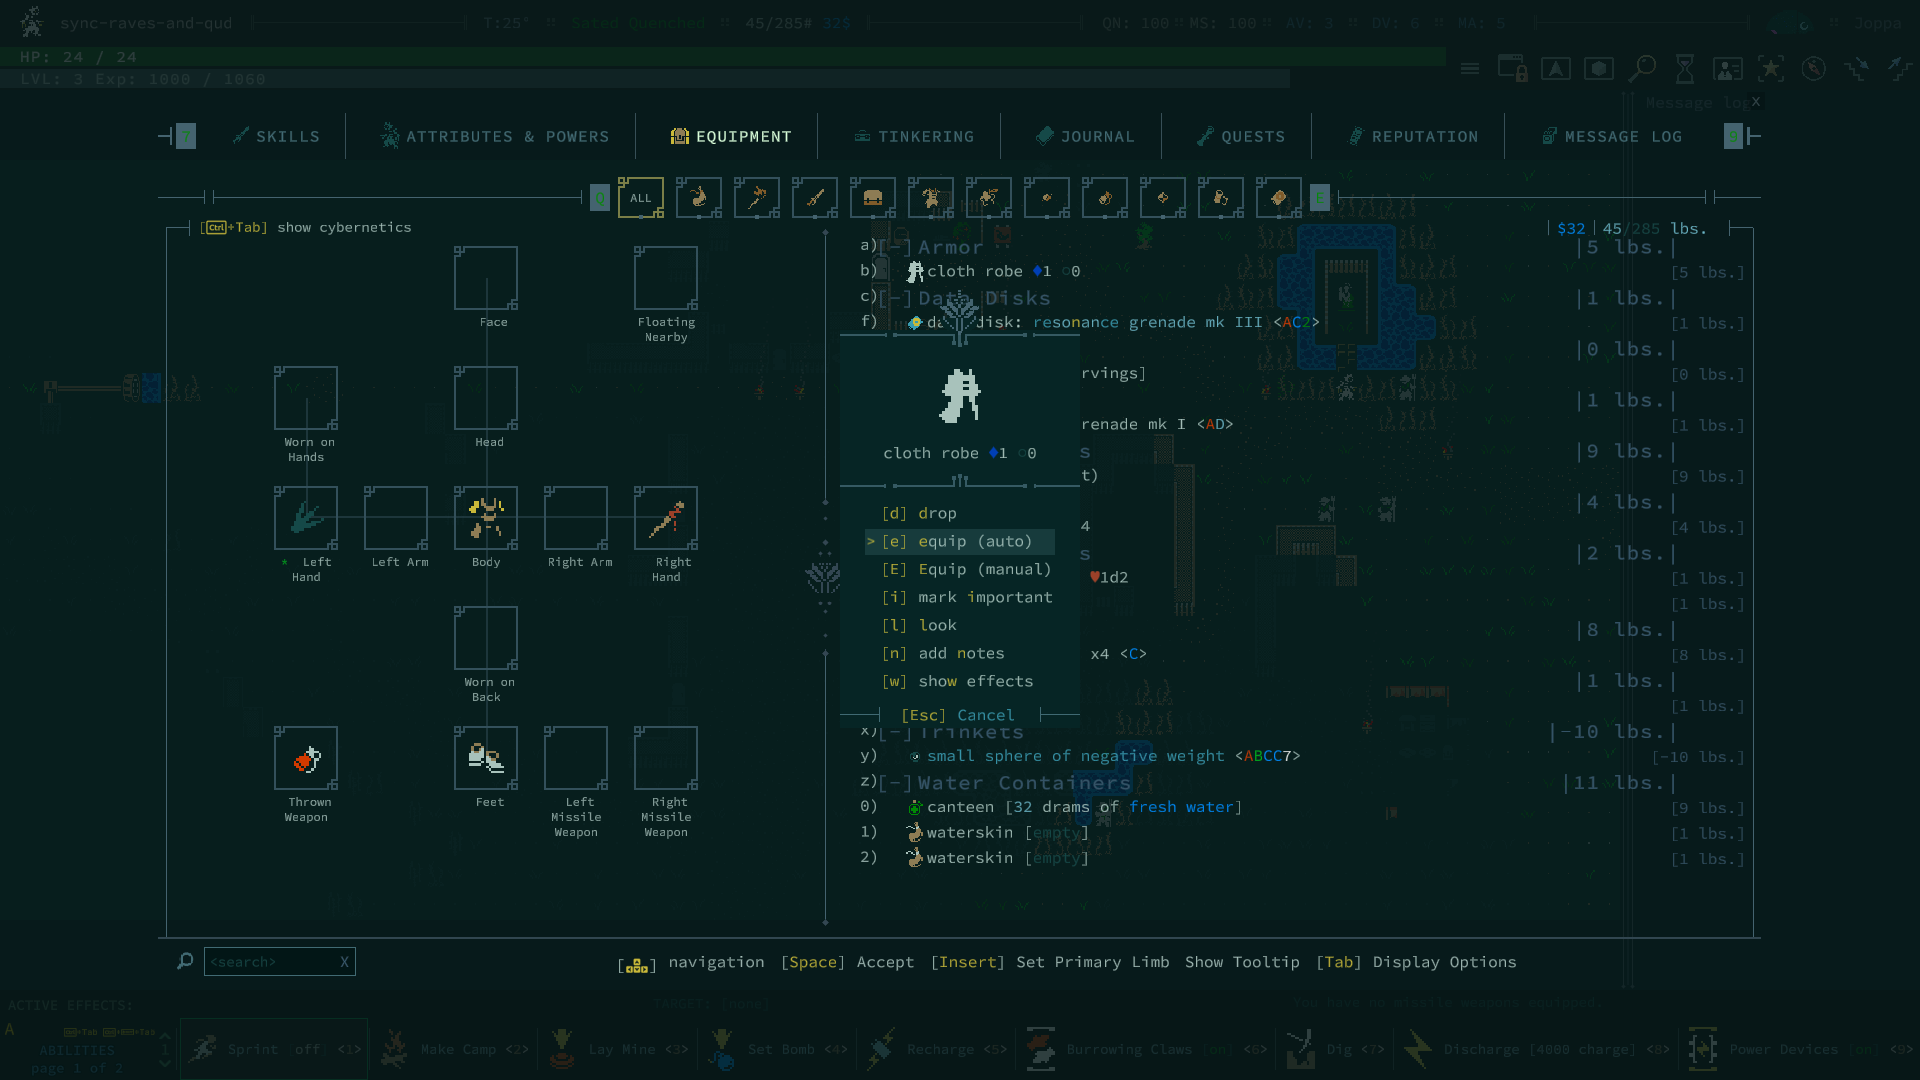
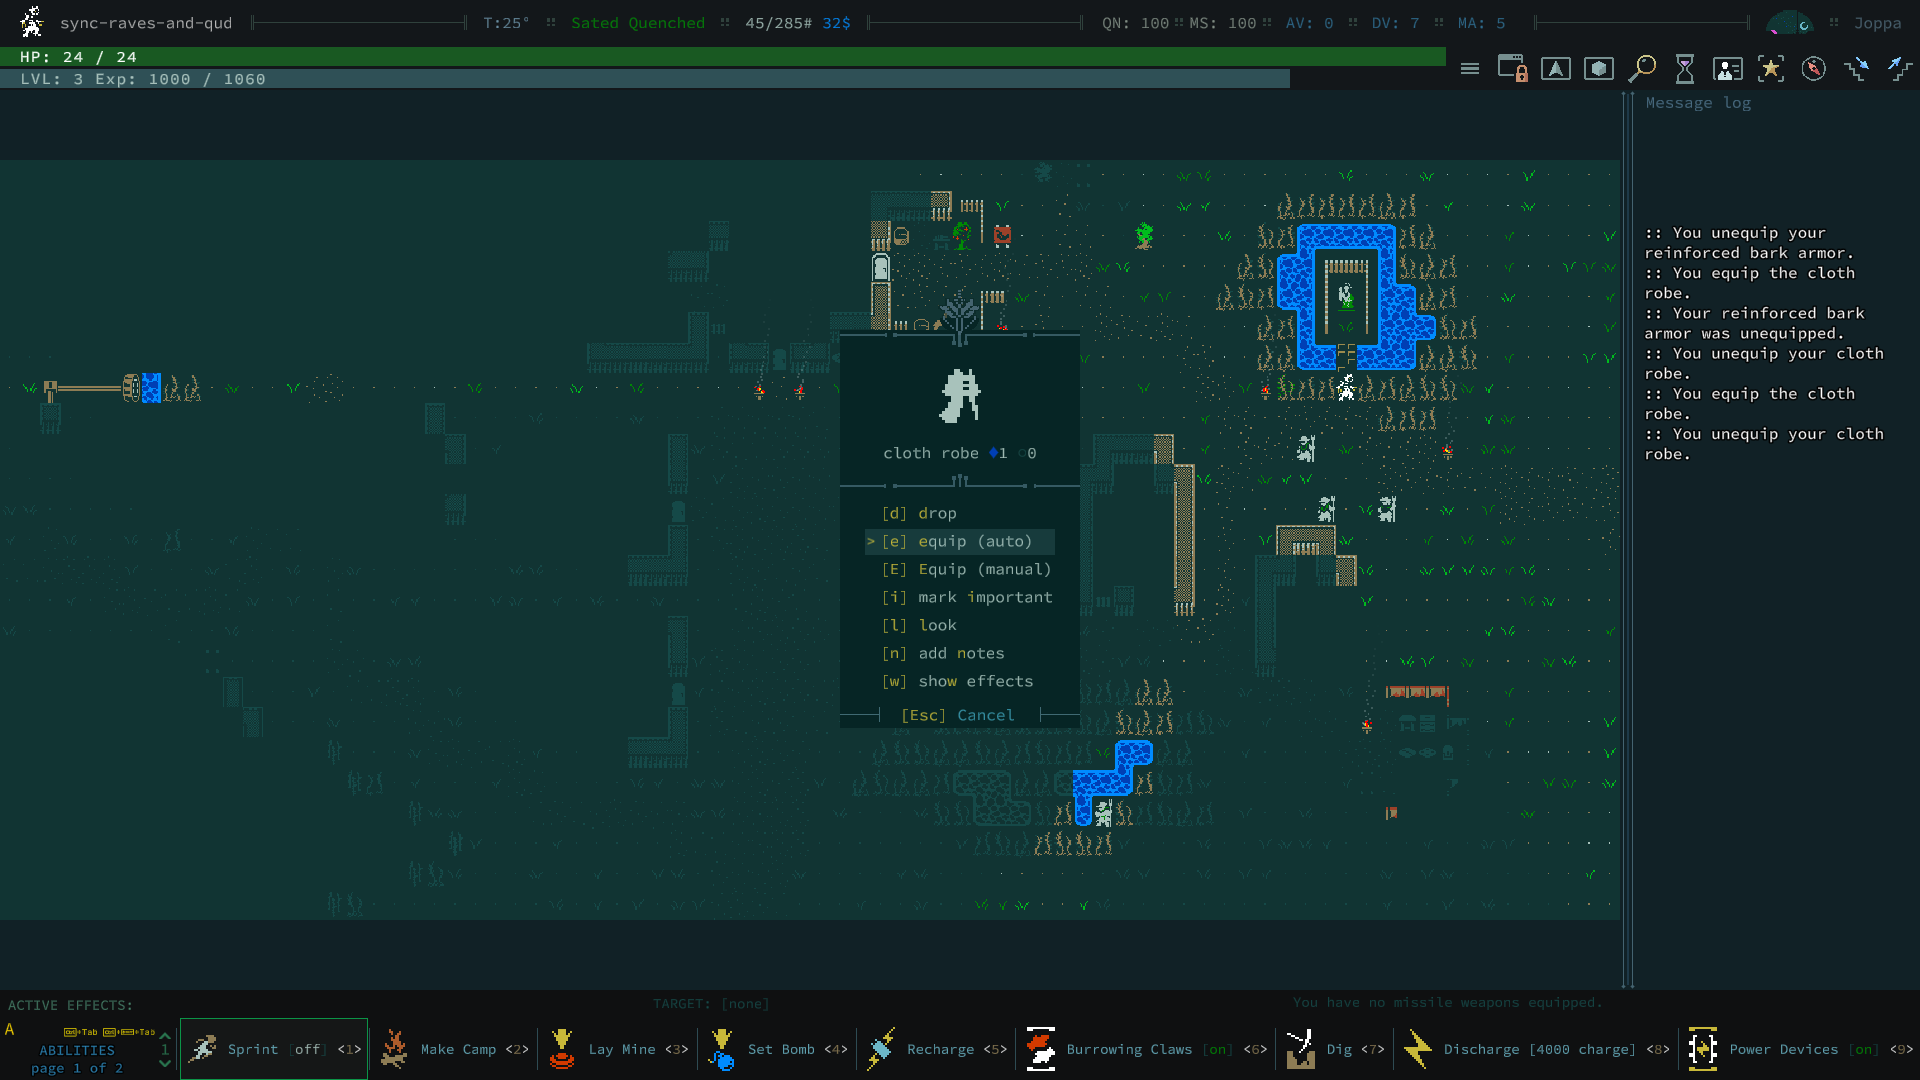
Item popup: build Qud's context header
The framed block Qud puts above the command list -- the item's tile, its name
with badges, and a notched divider -- now renders in Raves.

Sourced from the live popup rather than reconstructed: PopupMessage's
contextImage.threeColorTile carries the sprite and already-RESOLVED
Foreground/Detail, and contextText its own colour, so the client does no
palette work for the tile. The sprite has no name to ship (an atlas
sub-sprite: both sprite.name and texture.name are empty), so the mod dumps its
PIXELS into the tiles dir under a per-popup filename -- per-popup because the
client caches by name and a stable one would serve the previous item's art.

Geometry is quoted as offsets from the popup's top line, all measured off
Qud: tile box +26 at 48x72, name ink +113, divider +151.

parity, from the leaves added for this:

  popup_image_frame       16.48 -> 3.00
  popup_frame_text_content 32.21 -> 13.11
  popup_frame_text_color   25.80 -> 2.11
  popup_image_geometry     47.00 -> 0.00   (pixel-identical)
  popup_image_color       106.33 -> 0.00   (pixel-identical)

Two findings worth more than the feature:

  - the tile and the name were read from the SAME offset at two different
    moments (a draw callback and a deferred layout callback). When the layout
    shifted in between, the tile landed right and the name did not,
    intermittently -- the identical build measured +113 one run and +89 the
    next. They are drawn in one pass now. That drift is what made several
[…]

diff --git a/mod/PopupBridge.cs b/mod/PopupBridge.cs
@@ -1,4 +1,5 @@
 using System;
+using System.IO;
 using System.Collections.Generic;
 using ConsoleLib.Console;   // Location2D not needed; kept minimal
 using Qud.UI;               // PopupMessage, QudMenuItem, QudTextMenuController, UITextSkin, ControlledTMPInputField
@@ -176,7 +177,21 @@ namespace RavesOfQud
             string title = pm.Title != null ? pm.Title.text : "";
             string inputDefault = input ? (pm.inputBox.text ?? "") : "";
 
-            string sig = Sig(message, title, buttons, options, input, inputDefault);
+            // The CONTEXT belongs in the signature. Two items' menus carry identical
+            // options and an identical message, differing only in the header -- without
+            // this, opening a second item's menu would look like "same popup, already
+            // sent" and Raves would keep showing the first item's tile and name.
+            string ctxSig = "";
+            try
+            {
+                if (pm.contextText != null && pm.contextText.gameObject.activeSelf)
+                    ctxSig = pm.contextText.text ?? "";
+                var tc0 = pm.contextImage != null ? pm.contextImage.threeColorTile : null;
+                if (tc0 != null && tc0.image != null && tc0.image.sprite != null)
+                    ctxSig += SEP + tc0.image.sprite.name + SEP + Hex(tc0.Foreground) + Hex(tc0.Detail);
+            }
+            catch { }
+            string sig = Sig(message, title, buttons, options, input, inputDefault) + SEP + ctxSig;
             _announcedPm = pm;   // answers target the instance Raves is looking at
             if (_active && sig == _sig && !resend) return;   // same popup, same content — Raves already has it
             _active = true;
@@ -194,8 +209,95 @@ namespace RavesOfQud
             j.Member("kind", input ? "input" : (options != null && options.Count > 0 ? "menu" : "message"));
             WriteItems(j, "buttons", buttons);
             WriteItems(j, "options", options);
+            WriteContext(j, pm);
             j.EndObject();
             Publish(server, j.ToString());
+        }
+
+        /// The popup's CONTEXT HEADER -- the framed block Qud puts above the command
+        /// list, holding the subject's tile and its name (an item menu shows the item).
+        /// ShowPopup takes contextRender/contextTitle as PARAMETERS, so there is nothing
+        /// to read on the instance; the live components are the source of truth:
+        /// contextImage.threeColorTile (sprite + already-resolved Foreground/Detail/
+        /// Background) and contextText. Shipping resolved RGBA means the client needs no
+        /// palette lookup for this at all.
+        private static void WriteContext(JsonWriter j, Qud.UI.PopupMessage pm)
+        {
+            try
+            {
+                if (pm.contextContainer == null || !pm.contextContainer.activeSelf) return;
+                j.Name("context").BeginObject();
+                try { j.Member("frame", pm.contextFrame != null && pm.contextFrame.activeSelf); } catch { }
+                try
+                {
+                    if (pm.contextText != null && pm.contextText.gameObject.activeSelf)
+                    {
+                        j.Member("text", pm.contextText.text ?? "");
+                        // the label's own colour, for the runs the markup does not paint
+                        j.Member("textColor", Hex(pm.contextText.color));
+                    }
+                }
+                catch { }
+                try
+                {
+                    var disp = pm.contextImage;
+                    var tc = disp != null ? disp.threeColorTile : null;
+                    if (tc != null && tc.gameObject.activeSelf && tc.image != null && tc.image.sprite != null)
+                    {
+                        // No name to ship: this sprite comes off an atlas with an empty
+                        // sprite.name AND texture.name, so its PIXELS are the only identity
+                        // it has. Dump them into the tiles dir under a per-popup filename --
+                        // per-popup because the client caches tile textures by NAME, so a
+                        // stable name would serve the previous item's art forever.
+                        string tile = "__popup_ctx_" + _id + ".png";
+                        foreach (string old in Directory.GetFiles(TileExporter.Dir, "__popup_ctx_*.png"))
+                        {
+                            try { if (Path.GetFileName(old) != tile) File.Delete(old); } catch { }
+                        }
+                        if (TitleExporter.ExportSpriteToTiles(tc.image.sprite, tile))
+                            j.Member("tile", tile);
+                        j.Member("fg", Hex(tc.Foreground));
+                        j.Member("dt", Hex(tc.Detail));
+                        if (tc.Background.a > 0.01f) j.Member("bg", Hex(tc.Background));
+                        // one-time: the draw box, so the client sizes it from Qud rather
+                        // than from a measured guess
+                        var rt = tc.image.rectTransform;
+                        System.Console.WriteLine("[raves] popup context sprite.name='" + tile
+                            + "' tex='" + (tc.image.sprite.texture != null ? tc.image.sprite.texture.name : "null")
+                            + "' spriteRect=" + tc.image.sprite.rect
+                            + " mat='" + (tc.image.material != null ? tc.image.material.name : "null") + "'");
+                        System.Console.WriteLine("[raves] popup context tile '" + tile + "' rect " + rt.rect
+                            + " scale " + rt.localScale + " preserveAspect " + tc.image.preserveAspect);
+                    }
+                }
+                catch (Exception ie) { System.Console.WriteLine("[raves] popup context image: " + ie.Message); }
+                // Qud's palette rides along: a popup can be the FIRST thing Raves draws
+                // after connecting, before any zone snapshot has delivered one, and then
+                // its markup ({{b|}} badges and the like) silently falls back to the
+                // client's approximate table -- the same trap the status screens hit.
+                try
+                {
+                    j.Name("palette").BeginObject();
+                    foreach (char pch in "rRgGbBcCmMwWoOyYkK")
+                    {
+                        try
+                        {
+                            UnityEngine.Color pc = ConsoleLib.Console.ColorUtility.colorFromChar(pch);
+                            j.Member(pch.ToString(), Hex(pc));
+                        }
+                        catch { }
+                    }
+                    j.EndObject();
+                }
+                catch { }
+                j.EndObject();
+            }
+            catch (Exception e) { System.Console.WriteLine("[raves] popup context: " + e.Message); }
+        }
+
+        private static string Hex(UnityEngine.Color c)
+        {
+            return string.Format("#{0:x2}{1:x2}{2:x2}", (int)(c.r * 255f), (int)(c.g * 255f), (int)(c.b * 255f));
         }
 
         private static void WriteItems(JsonWriter j, string name, List<QudMenuItem> items)

diff --git a/tools/capture/parity.py b/tools/capture/parity.py
@@ -64,6 +64,36 @@ def load_spec(path):
     return spec, leaves
 
 
+def anchor_row(img, spec):
+    """First row in a band where `rgb` appears at least `min` times across `x`.
+
+    Lets a leaf be quoted RELATIVE to a landmark each app draws for itself -- for a
+    popup, its own top line. Without this, a leaf about the header's CONTENT also
+    silently scores the popup's PLACEMENT, and a constant 16px offset makes a
+    pixel-perfect header look broken.
+    """
+    rgb = np.array(spec["rgb"])
+    x0, x1 = spec.get("x", [0, img.shape[1]])
+    y0, y1 = spec.get("band", [0, img.shape[0]])
+    need = spec.get("min", 100)
+    m = (np.abs(img[:, x0:x1].astype(int) - rgb).max(axis=2) < spec.get("tol", 25))
+    for y in range(y0, min(y1, img.shape[0])):
+        if m[y].sum() >= need:
+            return y
+    return None
+
+
+def resolve_rect(leaf, img, spec):
+    """A leaf's rect, with y taken relative to the anchor row when one is declared."""
+    rect = list(leaf["rect"])
+    a = leaf.get("anchor") or spec.get("anchor")
+    if a and leaf.get("anchored", True) and ("anchor" in leaf or "anchor" in spec):
+        y = anchor_row(img, a)
+        if y is not None:
+            rect[1] = y + rect[1]
+    return rect
+
+
 def crop(img, rect):
     x, y, w, h = rect
     return img[y:y + h, x:x + w]
@@ -149,9 +179,10 @@ def bbox(mask):
 
 # ------------------------------------------------------------------- scoring
 
-def score_leaf(q, r, leaf, defaults):
-    qc = crop(q, leaf["rect"]).astype(float)
-    rc = crop(r, leaf["rect"]).astype(float)
+def score_leaf(q, r, leaf, defaults, spec=None):
+    spec = spec or {}
+    qc = crop(q, resolve_rect(leaf, q, spec)).astype(float)
+    rc = crop(r, resolve_rect(leaf, r, spec)).astype(float)
     # compare on the UNION of both masks: a sprite that is too small in one app
     # must still be penalised for the pixels the other app paints
     qm = leaf_mask(qc, leaf, defaults)
@@ -183,7 +214,7 @@ def cmd_score(spec_path, qud_path, raves_path, only=None, as_json=False):
     q = np.asarray(Image.open(qud_path).convert("RGB"))
     r = np.asarray(Image.open(raves_path).convert("RGB"))
     defaults = spec.get("defaults", {})
-    rows = [score_leaf(q, r, lf, defaults) for lf in leaves
+    rows = [score_leaf(q, r, lf, defaults, spec) for lf in leaves
             if only is None or lf["name"].startswith(only)]
     if as_json:
         print(json.dumps({"screen": spec.get("screen"), "leaves": rows}, indent=1))
@@ -209,7 +240,7 @@ def cmd_bounds(spec_path, img_path, only=None):
     for lf in leaves:
         if only and not lf["name"].startswith(only):
             continue
-        cell = crop(a, lf["rect"]).astype(float)
+        cell = crop(a, resolve_rect(lf, a, spec)).astype(float)
         m = leaf_mask(cell, lf, defaults)
         print("%-26s %-9s bbox %s  px %d" %
               (lf["name"], lf.get("kind", "composite"), bbox(m), int(m.sum())))
@@ -221,7 +252,7 @@ def cmd_mask(spec_path, img_path, leaf_name, out_path):
     defaults = spec.get("defaults", {})
     for lf in leaves:
         if lf["name"] == leaf_name:
-            cell = crop(a, lf["rect"]).astype(float)
+            cell = crop(a, resolve_rect(lf, a, spec)).astype(float)
             m = leaf_mask(cell, lf, defaults)
             out = cell.copy()
             out[~m] = [40, 0, 0]                  # masked-out pixels go dark red

diff --git a/mod/TitleExporter.cs b/mod/TitleExporter.cs
@@ -441,6 +441,23 @@ namespace RavesOfQud
             return s.Replace(' ', '_');
         }
 
+        /// Dump an arbitrary sprite into the TILES dir under `fileName`, so the client's
+        /// normal tile pipeline can load it by name. Used for images that have no name to
+        /// ship: a popup's context sprite comes off an atlas with an empty sprite.name AND
+        /// an empty texture.name, so there is no handle to send -- the pixels are the only
+        /// identity available.
+        public static bool ExportSpriteToTiles(Sprite sp, string fileName)
+        {
+            try
+            {
+                if (sp == null || sp.texture == null) return false;
+                Directory.CreateDirectory(TileExporter.Dir);
+                WriteSprite(sp, Path.Combine(TileExporter.Dir, fileName));
+                return true;
+            }
+            catch (Exception e) { System.Console.WriteLine("[raves] sprite dump: " + e.Message); return false; }
+        }
+
         private static void WriteSprite(Sprite sp, string dest)
         {
             if (sp == null || sp.texture == null) return;

diff --git a/docs/gotchas.md b/docs/gotchas.md
@@ -320,3 +320,30 @@ add a one-liner (symptom → rule).
   `popup_closed` -> `StatusScreens._refresh_after_popup`.
 - A `LineEdit` left at the default focus mode holds focus and eats the ACCEPT key. The tell is
   that ARROWS still work: a LineEdit passes up/down through and swallows only what it uses.
+
+## The popup context header (the "image frame")
+
+- Qud's popup header is `PopupMessage`'s `contextImage` / `contextText` / `contextFrame`.
+  `contextRender` and `contextTitle` are ShowPopup PARAMETERS, not stored fields, so there is
+  nothing to read on the instance -- the live components are the source of truth.
+  `contextImage.threeColorTile` gives the sprite plus already-RESOLVED Foreground/Detail, so the
+  client needs no palette lookup for the tile at all.
+- **That sprite has no name to ship.** Both `sprite.name` and `texture.name` come back empty (it
+  is an atlas sub-sprite), so its PIXELS are its only identity: the mod dumps them into the tiles
+  dir under a per-popup filename. Per-popup because the client caches tile textures by NAME -- a
+  stable name would serve the previous item's art forever.
+- Geometry, all measured as offsets from the popup's TOP LINE (not the panel, whose padding
+  differs): tile box +26 at 48x72 (Qud's RectTransform, 3x the 16x24 sprite), name ink +113,
+  divider +151, first command's ink 22 below that. Panel 240 wide; the tile centres on it.
+- **Draw the header's tile and its name in the SAME pass.** They were a drawn texture plus a
+  RichTextLabel positioned from a deferred callback -- two readings of the same offset at two
+  different moments. When the layout shifted between them the tile landed right and the name did
+  not, INTERMITTENTLY: the identical build measured +113 one run and +89 the next, and the drift
+  looked like state churn for hours. One pass, one reading. It also retires a guessed label
+  leading in favour of the font's own ascent (less 5px: ascent overshoots the cap height).
+- **A re-announce dedupe means a reconnecting client gets NOTHING.** `PopupBridge` skips the
+  announce while `_active && sig == _sig`, so if Raves restarts while a Qud popup is open, Qud
+  has the modal and Raves shows an empty screen forever. There is a `resend` flag that is not
+  wired to a fresh client connection. Workaround until it is: dismiss and re-raise in Qud.
+- `tools/build_macos.sh` reports `✓ built + signed` even when a script has a PARSE ERROR. Read
+  the `--check-only` output; a green build is not evidence the scripts are sound.
